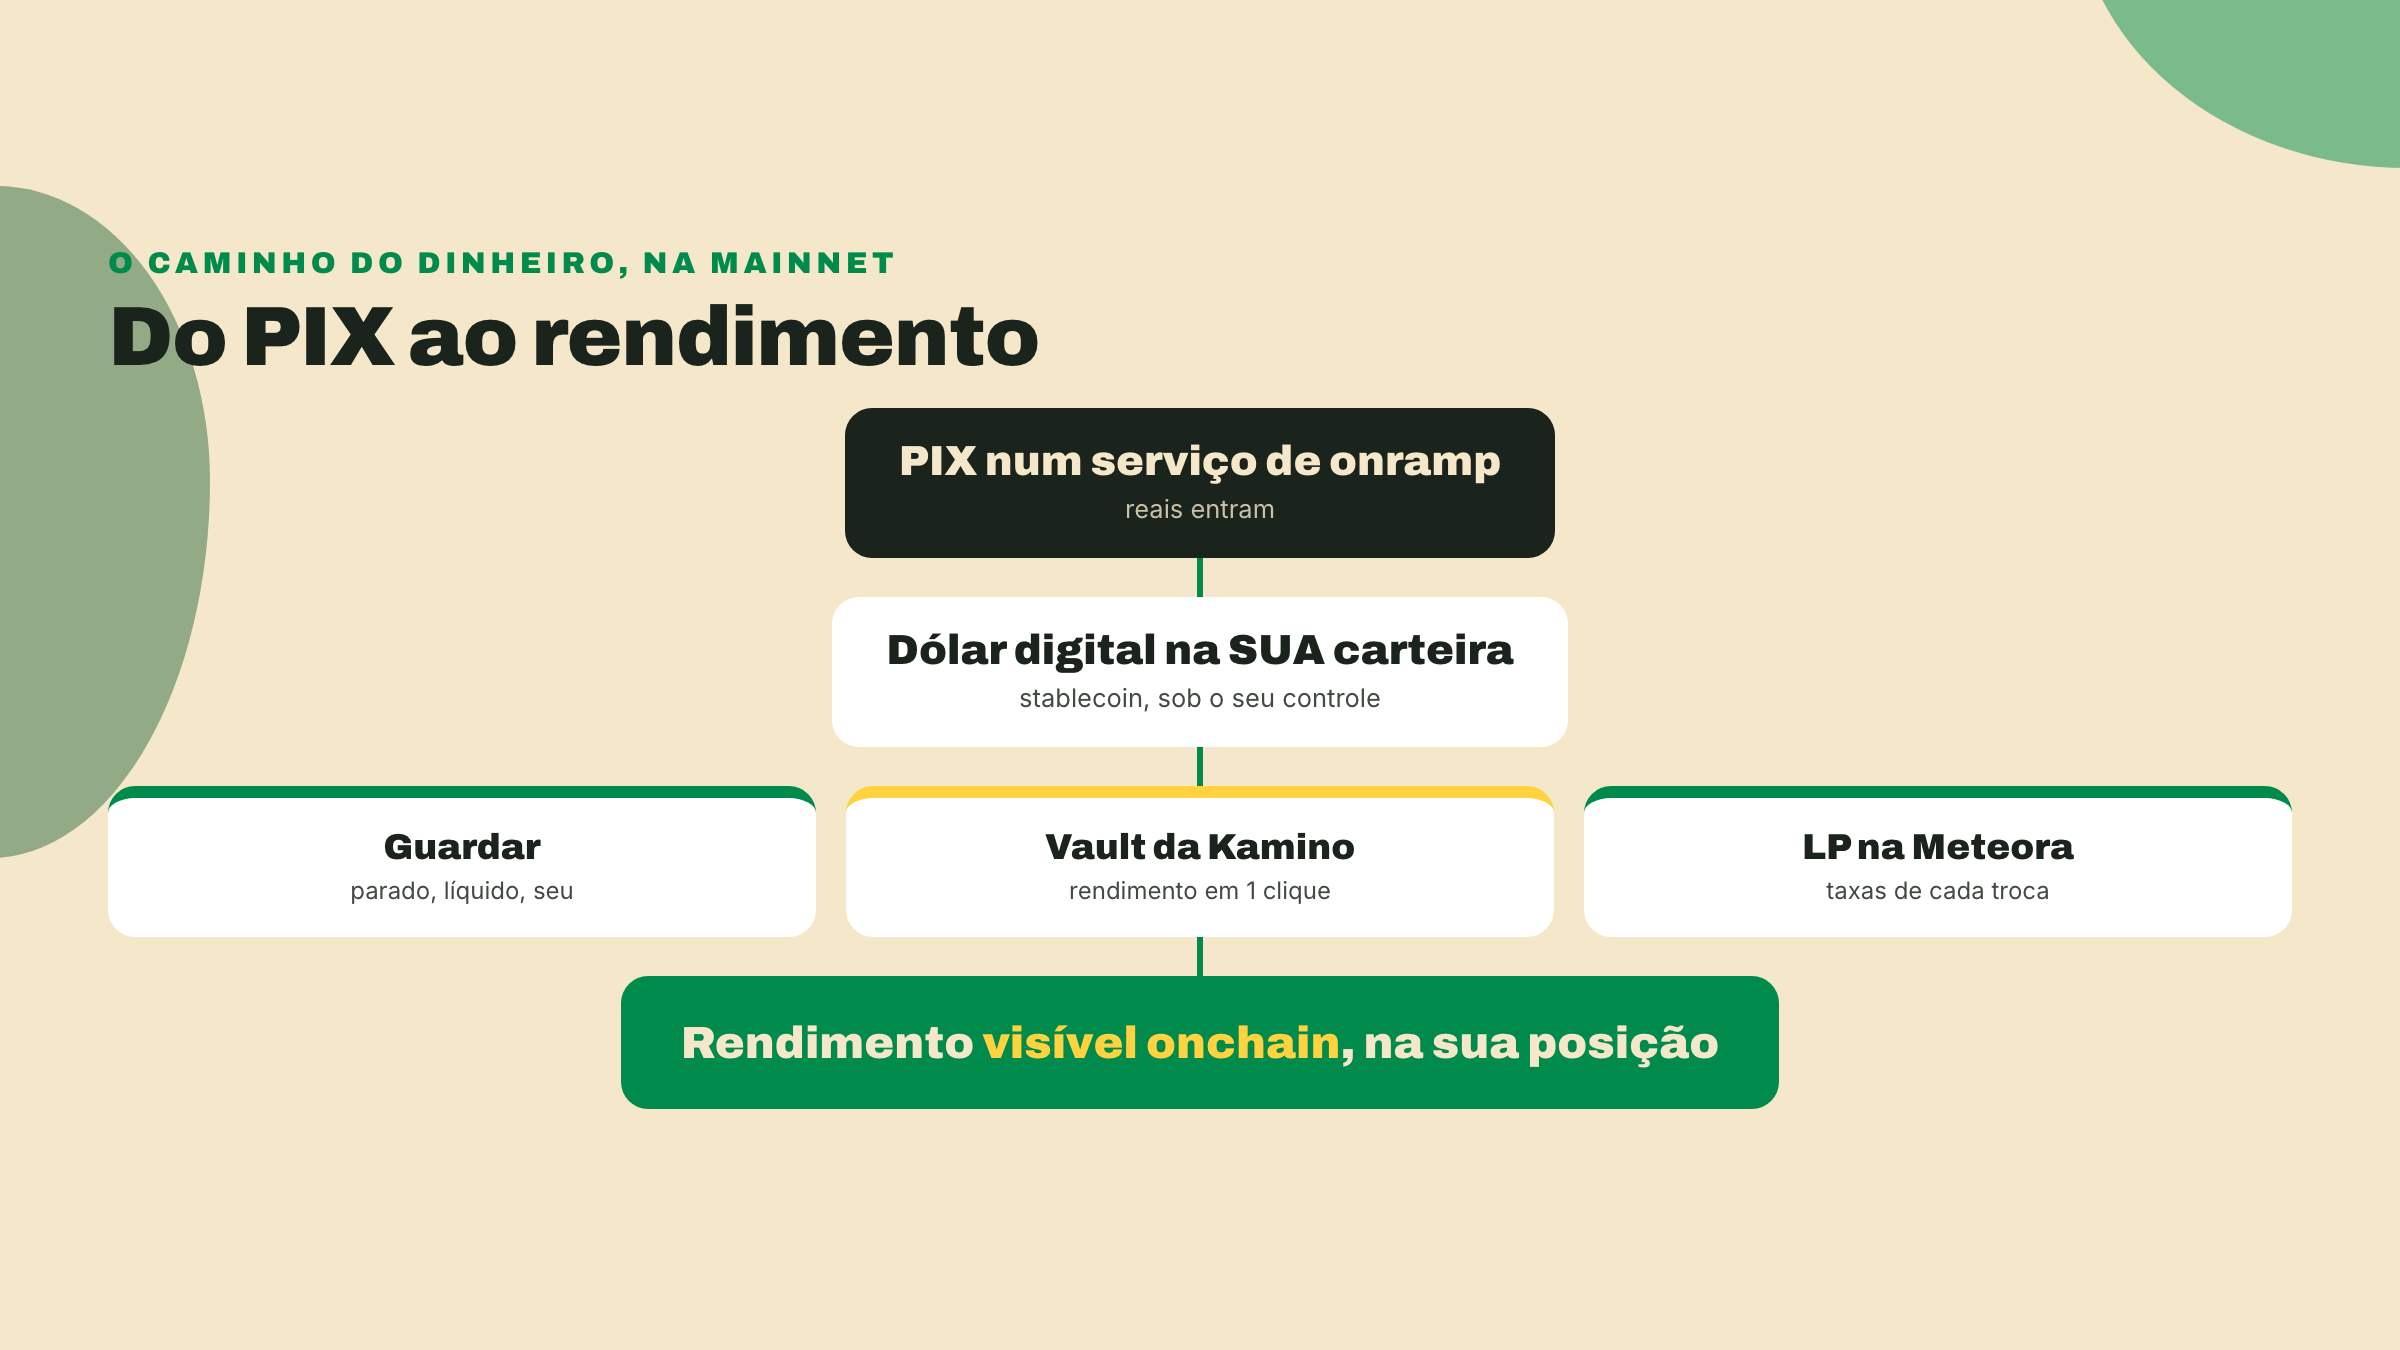
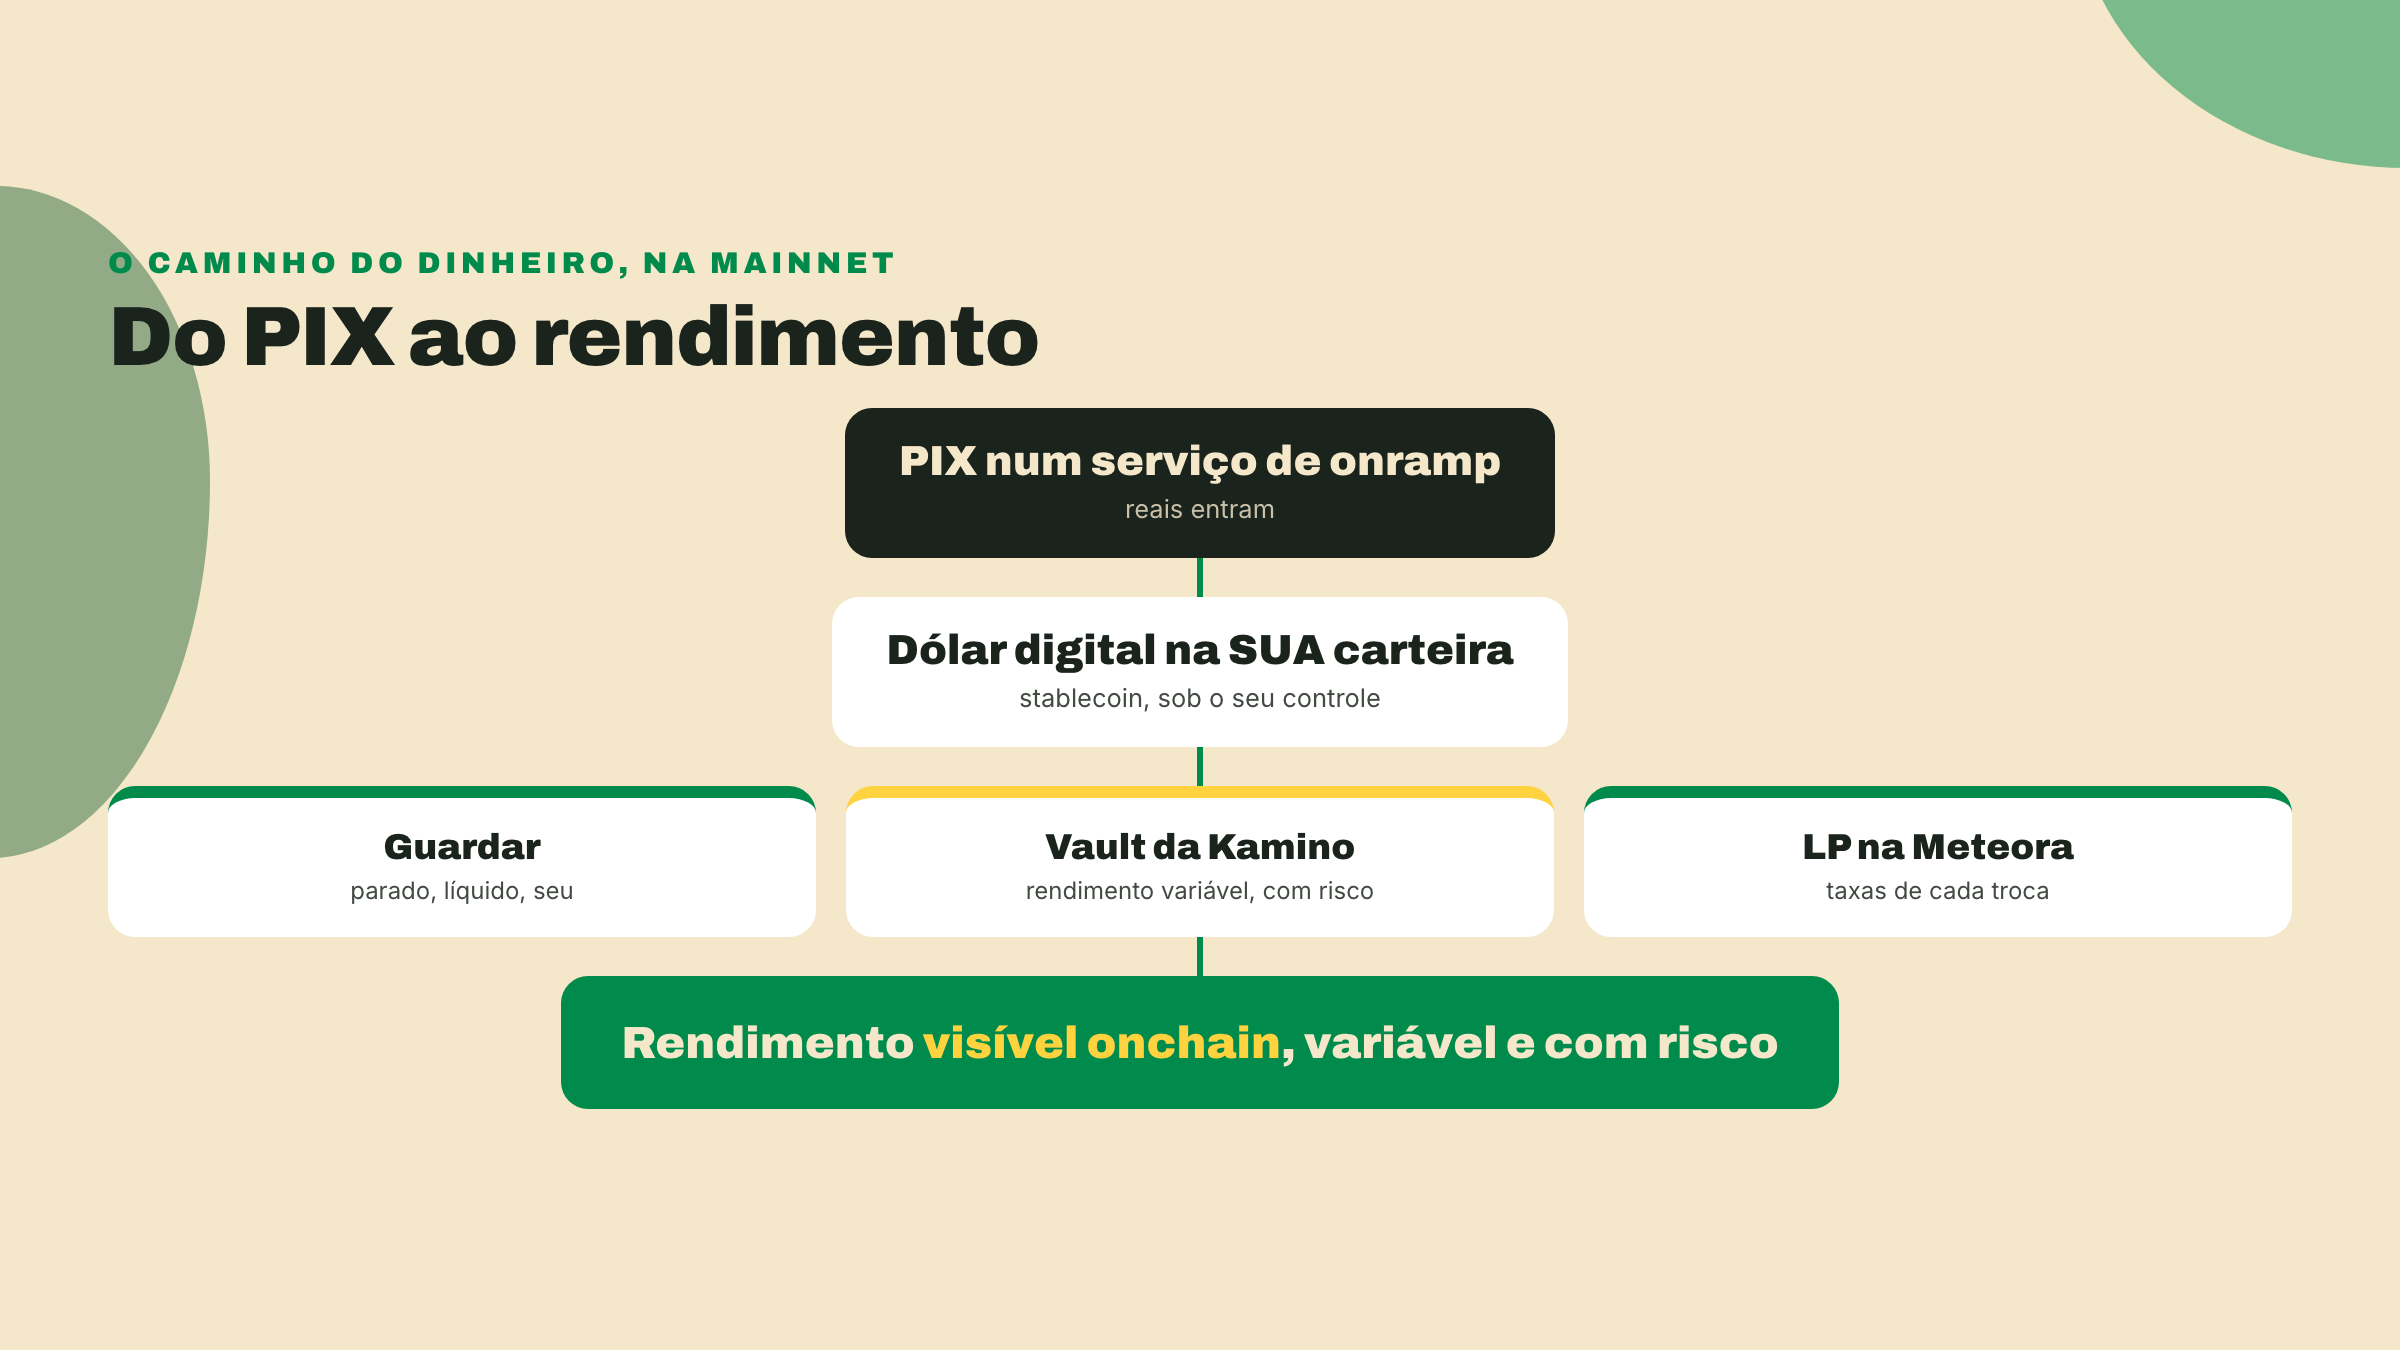
fix(solana-speedrun): make the final lesson work for unenrolled learners
The steps assumed lesson rows that a learner without an enrollment never gets. Also matches the Explorer's narrower tab labels and drops "em 1 clique" from the figures.

Changed region(s): [[0.2188, 0.7156, 0.7812, 0.84], [0.4375, 0.6533, 0.5625, 0.6844]]

diff --git a/courses/solana-speedrun/visual-src/seu-momento-onchain/v03-table.html b/courses/solana-speedrun/visual-src/seu-momento-onchain/v03-table.html
@@ -30,7 +30,7 @@
 <body>
 <!-- table: O que o onramp destrava
      purpose: Mostrar os quatro poderes DeFi que a carteira ganha depois do onramp
-     data: DEX: negocie 24/7 direto da carteira sem custódia. Lending: empreste e receba juros, ou tome emprestado com garantia. Vaults da Kamino: rendimento automatizado em 1 clique, ~US$ 2 bi geridos. LP na Meteora: forneça liquidez e ganhe fatia das taxas.
+     data: DEX: negocie 24/7 direto da carteira sem custódia. Lending: empreste e receba juros, ou tome emprestado com garantia. Vaults da Kamino: rendimento automatizado, variável e com risco. LP na Meteora: forneça liquidez e ganhe fatia das taxas.
      BUILD .viz as on-brand HTML per skills/content-gen/references/visual-rendering.md.
      WeasyPrint-safe CSS only: flexbox/grid/borders/gradients; NO box-shadow, NO
      background-image url(), NO JS. Use brand tokens (--surface-*, --text-*, --stbr-*). -->
@@ -53,7 +53,7 @@
     </div>
     <div class="row hero">
       <div class="power"><div class="glyph">1</div><div class="name">Vaults da Kamino</div></div>
-      <div class="desc">Rendimento automatizado <strong>em 1 clique</strong>. Variável, e com risco.</div>
+      <div class="desc">Rendimento <strong>automatizado</strong>. Variável, e com risco.</div>
     </div>
     <div class="row">
       <div class="power"><div class="glyph">＋</div><div class="name">LP na Meteora</div></div>

diff --git a/courses/solana-speedrun/visual-src/seu-momento-onchain/v04-flowchart.html b/courses/solana-speedrun/visual-src/seu-momento-onchain/v04-flowchart.html
@@ -36,7 +36,7 @@
 <body>
 <!-- flowchart: Do PIX ao rendimento
      purpose: Mostrar o caminho do dinheiro na mainnet, para quem quiser dar esse passo, do PIX à posição rendendo onchain
-     data: PIX num serviço de onramp -> stablecoin na carteira -> três caminhos (guardar, vault Kamino, LP Meteora) -> rendimento visível onchain
+     data: PIX num serviço de onramp -> stablecoin na carteira -> três caminhos (guardar, vault Kamino, LP Meteora) -> rendimento visível onchain, variável e com risco
      BUILD .viz as on-brand HTML per skills/content-gen/references/visual-rendering.md.
      WeasyPrint-safe CSS only: flexbox/grid/borders/gradients; NO box-shadow, NO
      background-image url(), NO JS. Use brand tokens (--surface-*, --text-*, --stbr-*). -->
@@ -66,7 +66,7 @@
       </div>
       <div class="path hot">
         <div class="t">Vault da Kamino</div>
-        <div class="s">rendimento em 1 clique</div>
+        <div class="s">rendimento variável, com risco</div>
       </div>
       <div class="path">
         <div class="t">LP na Meteora</div>
@@ -75,7 +75,7 @@
     </div>
     <div class="arrow"></div>
     <div class="final">
-      <div class="t">Rendimento <em>visível onchain</em>, na sua posição</div>
+      <div class="t">Rendimento <em>visível onchain</em>, variável e com risco</div>
     </div>
   </div>
 </div>

diff --git a/courses/solana-speedrun/visual-src/seu-momento-onchain/v02-diagram.html b/courses/solana-speedrun/visual-src/seu-momento-onchain/v02-diagram.html
@@ -50,7 +50,7 @@
   .cta .sub { font-family:var(--font-body); font-weight:600; font-size:21px;
     line-height:1.3; color:var(--stbr-green-800); margin:18px 0 0; }
 </style>
-  <div class="stbr-eyebrow">o que você acabou de ver</div>
+  <div class="stbr-eyebrow">o que esse registro é</div>
   <h2 class="viz-title">de graça, e verificável</h2>
   <div class="dg">
     <div class="hero">

diff --git a/courses/solana-speedrun/lessons/seu-momento-onchain/intro.md b/courses/solana-speedrun/lessons/seu-momento-onchain/intro.md
@@ -1,17 +1,17 @@
 # Seu momento onchain
 
-Chega de teoria. Enquanto você fazia este curso, o seu estudo já foi virando registro na Solana. Agora você vai abrir essa prova com os próprios olhos, no mesmo painel público que qualquer pessoa usa para conferir a rede.
+Chega de teoria. Com a matrícula feita, cada lição que você conclui vira um registro na Solana. Agora você vai abrir essa prova com os próprios olhos, no mesmo painel público que qualquer pessoa usa para conferir a rede.
 
 ![Um fluxograma vertical mostra quatro passos: abrir o Painel em Atividade, clicar numa lição concluída, ler Status, Fee e Fee payer no Explorer e concluir o curso para ver a credencial em Certificados.](assets/v01-flowchart.webp)
 
-Siga os quatro passos, um de cada vez. Se você chegou até aqui sem entrar na sua conta, entre e se matricule primeiro: sem matrícula, lição concluída não vira registro.
+Siga os quatro passos, um de cada vez. Ainda não se matriculou? Use o botão **Matricular-se** antes (sem conta, ele aparece como **Entrar para Matricular-se**). Lição lida antes da matrícula não conta: depois de se matricular, conclua as lições anteriores, passando nos quizzes, e volte para cá.
 
 1. Abra o **Painel** da Academy e desça até **Atividade**.
-2. Clique numa lição concluída que tenha uma setinha no canto da linha. O Solana Explorer abre direto naquela transação, na rede Devnet. Se a setinha ainda não apareceu, espere um pouco e recarregue: o registro chega logo depois da conclusão.
-3. Leia três campos. **Status** diz se deu certo, **Fee** mostra a taxa em SOL e **Fee payer** mostra quem pagou. Depois abra a aba **Programs & Logs** e procure `CompleteLesson` e `MintTo`: é o programa da Academy marcando a sua lição e emitindo o seu XP.
-4. Passe no quiz abaixo e conclua esta lição. Com as quatro lições concluídas, a sua credencial do curso é emitida automaticamente e aparece em **Certificados**, com o link **Ver no Solana Explorer**. Se ela não aparecer, o **Painel** mostra o botão **Emitir Certificado**.
+2. Clique numa lição concluída que tenha uma setinha no canto da linha. O Solana Explorer abre direto naquela transação, na rede Devnet. Se você está matriculado e acabou de concluir uma lição, a linha inteira pode demorar um pouco a aparecer: espere e recarregue.
+3. Leia três campos. **Status** diz se deu certo, **Fee** mostra a taxa em SOL e **Fee payer** mostra quem pagou. Depois procure `CompleteLesson` e `MintTo` nos logs (aba **Programs & Logs** em tela larga, aba **Logs** em tela menor; no celular, role a página até os logs): é o programa da Academy marcando a sua lição e emitindo o seu XP.
+4. Passe no quiz abaixo e conclua esta lição. Com as quatro lições concluídas, a sua credencial do curso é emitida automaticamente e aparece em **Certificados**. Abra a credencial para encontrar o botão **Ver no Solana Explorer**. Se ela não aparecer, o **Painel** mostra o botão **Emitir Certificado**.
 
-Sejamos honestos sobre o que você acabou de ver. A Academy roda hoje na devnet, a rede da Solana feita para testes. O SOL de lá não tem valor de mercado, e o seu XP e a sua credencial não são dinheiro nem ativo na mainnet: não dá para vender nem trocar por nada. O que eles são: registros públicos, que qualquer pessoa confere sem pedir permissão a ninguém. E o endereço em Fee payer não é o seu porque a Academy pagou a taxa por você. Esse modelo de fee-payer é padrão na Solana.
+Sejamos honestos sobre o que esse registro é. A Academy roda hoje na devnet, a rede da Solana feita para testes. O SOL de lá não tem valor de mercado, e o seu XP e a sua credencial não são dinheiro nem ativo na mainnet: não dá para vender nem trocar por nada. O que eles são: registros públicos, que qualquer pessoa confere sem pedir permissão a ninguém. E o endereço em Fee payer não é o seu porque a Academy pagou a taxa por você. Esse modelo de fee-payer é padrão na Solana.
 
 ![Um diagrama mostra o seu estudo registrado na devnet da Solana, com a taxa paga pela Academy e XP e credencial sem valor de mercado, e aponta a mainnet como um passo opcional, com dinheiro real.](assets/v02-diagram.webp)
 
@@ -27,4 +27,4 @@ Uma nota honesta antes de você sair correndo: na mainnet o dinheiro é de verda
 
 Você também não precisa de dinheiro nenhum para continuar. Quer ganhar pelo trabalho? O [Superteam Earn](https://superteam.fun/earn/) da lição anterior tem tarefas abertas. Quer **construir**? O próximo passo é o curso "From Bitcoin to Solana" (btc-to-sol-evolution): do primeiro hash ao seu próprio programa rodando na Solana (por enquanto, em inglês).
 
-Abra o Painel, ache a sua primeira transação e confira. Bem-vindo ao mundo onchain. 🚀
+Assim que tiver uma lição concluída com matrícula, abra o Painel e confira a sua transação. Bem-vindo ao mundo onchain. 🚀
